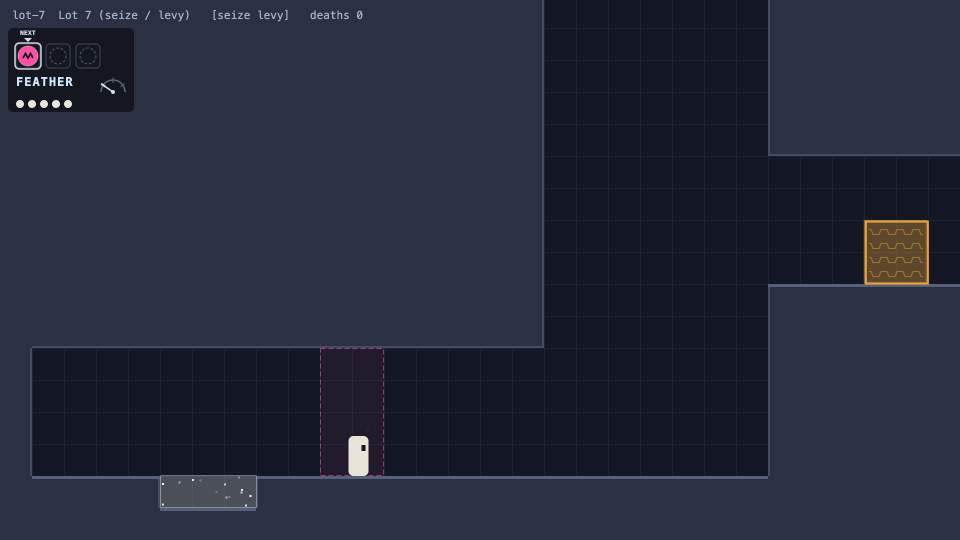
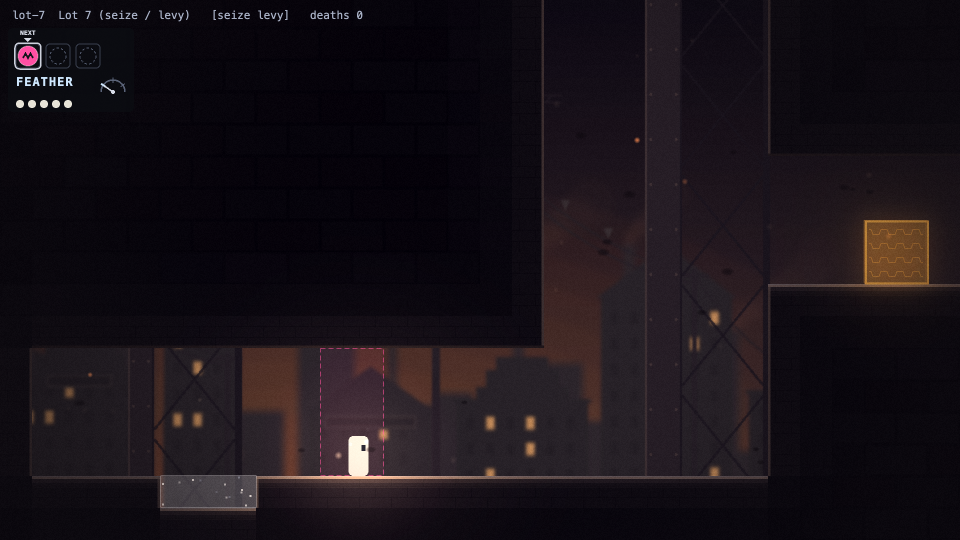
L3 merge: L3 visuals wired into the atmosphere pipeline
- New unlit world-space `gfx.layers.actors` above the lit playfield: sources, levied, enemies,
  the player and front juice. Lit, the L3 shapes dropped to ~40% and E1 failed (ghost ratio 1.17,
  brown contrast 1.6:1); now ghost 0.33, hue gap 69°, contrast 5.6:1.
- Humming sources, humming levied and armed voices draw emissive copies (bloom) and push small
  lights in their noise colour; telegraphs glow up with the wind-up. Ghost/pending/static don't.
- NOISE_COLOURS.core is the E1-checked PALETTE token (unit test keeps glow/light on its hue).
- Goldens regenerated; lot-7 and the-pit added. Bag HUD hides with gfx ui:false (text in goldens).

diff --git a/src/render/signature.ts b/src/render/signature.ts
@@ -4,6 +4,8 @@ import { type AttackDef, enemyDef } from '../sim/ai/schema';
 import type { Colour, SimEvent } from '../sim/events';
 import type { Enemy, Levied, Sound, Source } from '../sim/state';
 import { tuning } from '../sim/tuning';
+import type { Light } from './gfx/lighting';
+import { NOISE_COLOURS } from './gfx/palette';
 import {
   dashedRect,
   drawGhost,
@@ -52,6 +54,10 @@ export class SignatureRenderer {
   readonly back = new Graphics();
   /** Over the player: tethers, count rings, sparks, weight motes. */
   readonly front = new Graphics();
+  /** Emissive copies (gfx.layers.emissive): humming sources, levied, armed voices, telegraphs. */
+  readonly glow = new Graphics({ label: 'sig-glow' });
+  /** Lights for this frame (gfx light provider), filled by draw(). */
+  private frameLights: Light[] = [];
 
   // Deterministic feedback state (stepped per sim frame).
   private flash = new Map<number, number>();
@@ -214,7 +220,9 @@ export class SignatureRenderer {
     const frame = s.frame;
     const g = this.back.clear();
     const f = this.front.clear();
+    const gl = this.glow.clear();
     this.drawn = [];
+    this.frameLights = [];
     const soundOf = (id: number) => L.sounds.find((x) => x.id === id);
     const shake = s.hitstop > 0 ? (s.hitstop % 2 === 0 ? 1 : -1) * SIG.hitstopShakePx : 0;
     const ts = tuning.world.tileSize;
@@ -281,6 +289,7 @@ export class SignatureRenderer {
       } else {
         status = 'humming';
         drawHumming(g, r, colour, frame, this.flash.has(src.id));
+        this.glowHum(gl, r, colour, frame);
       }
       this.drawn.push({ id: src.id, kind: 'object', colour, status, x: src.x, y: src.y, w: src.w, h: src.h });
     }
@@ -292,6 +301,7 @@ export class SignatureRenderer {
       const y = q ? lerp(q.y, l.y, alpha) : l.y;
       const src = L.sources.find((o) => o.kind === 'levied' && o.ent === l.id);
       const status = drawLevied(g, l, x, y, frame);
+      if (status === 'humming') this.glowHum(gl, { x, y, w: l.w, h: l.h }, l.colour, frame);
       this.drawn.push({
         id: src?.id ?? l.id,
         kind: 'levied',
@@ -314,7 +324,7 @@ export class SignatureRenderer {
       if (this.shakeId === e.id || this.shakeId === e.source) x += shake;
       const src = L.sources.find((o) => o.id === e.source);
       const voices = (src?.soundIds ?? []).map(soundOf).filter((v): v is Sound => !!v);
-      const status = this.drawEnemy(g, f, e, x, y, voices, frame);
+      const status = this.drawEnemy(g, f, gl, e, x, y, voices, frame);
       const colour = voices[0]?.colour ?? '';
       this.drawn.push({ id: src?.id ?? e.id, kind: 'enemy', colour, status, x, y, w: e.w, h: e.h });
 
@@ -366,9 +376,40 @@ export class SignatureRenderer {
     this.drawn.push({ id: 0, kind: 'player', colour: '', status: p.profile, ...kr });
   }
 
+  /** A light for this frame's provider call (world px). */
+  private light(x: number, y: number, radius: number, colour: Colour, intensity: number): void {
+    this.frameLights.push({ x, y, radius, color: NOISE_COLOURS[colour].light, intensity });
+  }
+
+  /** Emissive copy of a humming thing (outline + faint fill) and its light. */
+  private glowHum(gl: Graphics, r: Rect, colour: Colour, frame: number): void {
+    const n = NOISE_COLOURS[colour];
+    const { dx, dy } = vibration(colour, frame);
+    const w = SIG.hummingOutline;
+    gl.rect(r.x, r.y, r.w, r.h).fill({ color: n.glow, alpha: SIG.glowFillAlpha });
+    gl.rect(r.x + dx + w / 2, r.y + dy + w / 2, r.w - w, r.h - w).stroke({
+      width: w,
+      color: n.core,
+      alpha: SIG.glowOutlineAlpha,
+    });
+    this.light(
+      r.x + r.w / 2,
+      r.y + r.h / 2,
+      SIG.lightRadius + Math.max(r.w, r.h) / 2,
+      colour,
+      SIG.lightIntensity,
+    );
+  }
+
+  /** Light provider (gfx.lights.providers): the lights of the last drawn frame. */
+  lights(out: Light[]): void {
+    for (const l of this.frameLights) out.push(l);
+  }
+
   private drawEnemy(
     g: Graphics,
     f: Graphics,
+    gl: Graphics,
     e: Enemy,
     x: number,
     y: number,
@@ -423,6 +464,14 @@ export class SignatureRenderer {
           color: oc,
           alpha: 1,
         });
+        // Armed voices glow a little; a winding-up telegraph glows hard (it reads in any light).
+        gl.roundRect(r.x + dx + width / 2, r.y + dy + width / 2, r.w - width, r.h - width, 12).stroke({
+          width,
+          color: NOISE_COLOURS[v.colour].core,
+          alpha: SIG.glowVoiceAlpha + (SIG.glowTeleAlpha - SIG.glowVoiceAlpha) * Math.max(k, pulse),
+        });
+        if (i === 0)
+          this.light(x + W / 2, y + H / 2, SIG.enemyLightRadius + W / 2, v.colour, SIG.enemyLightIntensity);
       } else {
         dashedRect(g, r, Math.max(2, width * 0.5), c, e.state === 'TELEGRAPH' ? 0.9 : SIG.ghostOutlineAlpha);
       }
@@ -435,6 +484,11 @@ export class SignatureRenderer {
         width: 2 + 4 * k,
         color: tint,
         alpha: 0.5 + 0.5 * k,
+      });
+      gl.roundRect(x - pad, y - pad, W + 2 * pad, H + 2 * pad, 12).stroke({
+        width: 2 + 4 * k,
+        color: tint,
+        alpha: SIG.glowTeleAlpha * k,
       });
     }
 

diff --git a/src/render/gfx/pipeline.ts b/src/render/gfx/pipeline.ts
@@ -8,7 +8,9 @@
  *   │  │                unlit on purpose: lit, the mid layer went as dark as the playfield and
  *   │  │                its pillars read as walls. Lamps still glow over it through the haze.
  *   │  ├─ lit           [LightingFilter: x light map]
- *   │  │  └─ playfield  the camera-moved world: terrain, characters, juice (WorldRenderer.world)
+ *   │  │  └─ playfield  the camera-moved world: terrain, door labels, dust (WorldRenderer.world)
+ *   │  ├─ actors        world space, unlit: L3 sources/levied/enemies, the player, juice. Anything
+ *   │  │                the player must read (hums, ghosts, telegraphs) never depends on a lamp.
  *   │  ├─ emissive      additive, unlit glowing shapes, world space
  *   │  ├─ bloom         the emissive layer blurred at 1/4 and 1/8 res (BloomPass), additive
  *   │  ├─ ambient       soot (normal) + motes/embers (additive) particles
@@ -18,7 +20,8 @@
  *
  * Hooks for other render code (e.g. sound-source visuals):
  *   - `layers.emissive`: add Graphics/Sprites in world px; they glow (bloom) and ignore lighting.
- *   - `layers.playfield` (= WorldRenderer.world): lit characters/objects.
+ *   - `layers.playfield` (= WorldRenderer.world): lit terrain and props.
+ *   - `layers.actors`: unlit, still graded by post; gameplay-critical shapes.
  *   - `lights.providers.add(fn)`: push per-frame lights (world px, colour, radius, intensity).
  *   - `NOISE_COLOURS` in palette.ts for brown/pink/violet/white hums.
  */
@@ -69,6 +72,8 @@ export class GfxPipeline {
     mid: new Container({ label: 'mid' }),
     /** The camera-moved playfield; WorldRenderer passes its `world` container in. */
     playfield: null as unknown as Container,
+    /** World-space, unlit (post still grades it): readability-critical actors, see the header. */
+    actors: new Container({ label: 'actors' }),
     /** Screen-space holder of the bloom filter; add world-space things to `emissive`. */
     emissiveRoot: new Container({ label: 'emissive-root' }),
     emissive: new Container({ label: 'emissive' }),
@@ -127,7 +132,7 @@ export class GfxPipeline {
     L.emissive.addChild(this.terrainGlow, this.fxGlow, this.playerGlow);
     L.emissiveRoot.addChild(L.emissive);
     L.ambient.addChild(this.ambientView.soot, this.ambientView.glow);
-    this.scene.addChild(L.bg, L.lit, L.emissiveRoot, this.bloom.view, L.ambient, L.fg);
+    this.scene.addChild(L.bg, L.lit, L.actors, L.emissiveRoot, this.bloom.view, L.ambient, L.fg);
     L.ui.addChild(this.perfHud.container);
     app.stage.addChild(this.lights.screenSprite, this.scene, L.overlay, L.ui);
     const gl = (this.renderer as unknown as { gl?: WebGL2RenderingContext }).gl;
@@ -232,6 +237,7 @@ export class GfxPipeline {
     const { camX, camY, clock } = f;
     this.backdrop?.place(camX, camY);
     this.layers.playfield.position.set(-camX, -camY);
+    this.layers.actors.position.set(-camX, -camY);
     this.layers.emissive.position.set(-camX, -camY);
     this.layers.overlay.position.set(-camX, -camY);
 

diff --git a/src/render/world.ts b/src/render/world.ts
@@ -37,7 +37,7 @@ const render = {
  * bloom, post, particles) is `gfx` (src/render/gfx/pipeline.ts). Read-only with respect to the sim.
  */
 export class WorldRenderer {
-  /** Moved by the camera, lit by the light map: terrain, characters, juice. */
+  /** Moved by the camera, lit by the light map: terrain, door labels, dust (actors: gfx.layers.actors). */
   readonly world = new Container({ label: 'world' });
   /** World-space debug overlays (unlit, un-graded). */
   readonly overlay = new Container({ label: 'debug-overlay' });
@@ -72,15 +72,12 @@ export class WorldRenderer {
     this.gfx = new GfxPipeline(app, this.world);
     this.sig = new SignatureRenderer(game);
     this.bagHud = new BagHud(game);
-    this.world.addChild(
-      this.tiles,
-      this.labels,
-      this.sig.back,
-      this.fxBack,
-      this.player,
-      this.fxFront,
-      this.sig.front,
-    );
+    // Terrain, labels and dust are lit; the L3 readability layer, the player and front juice are
+    // unlit actors (a hum or a telegraph must never depend on a lamp), and sources glow.
+    this.world.addChild(this.tiles, this.labels, this.fxBack);
+    this.gfx.layers.actors.addChild(this.sig.back, this.player, this.fxFront, this.sig.front);
+    this.gfx.layers.emissive.addChild(this.sig.glow);
+    this.gfx.lights.providers.add((out) => this.sig.lights(out));
     this.gfx.layers.overlay.addChild(this.overlay);
     this.gfx.layers.ui.addChildAt(this.screen, 0);
     this.hud = new Text({
@@ -303,6 +300,7 @@ export class WorldRenderer {
     }${stats.optional ? '  +g' : ''}${this.hudExtra ? `   ${this.hudExtra}` : ''}`;
     if (this.hud.text !== text) this.hud.text = text;
     this.hud.visible = this.gfx.toggles.ui;
+    this.bagHud.container.visible = this.gfx.toggles.ui;
     this.labels.visible = this.gfx.toggles.ui;
   }
 }

diff --git a/src/render/gfx/palette.ts b/src/render/gfx/palette.ts
@@ -7,6 +7,7 @@
  * fog colour, nearer layers get darker, and the playfield terrain is the darkest mass with the
  * brightest rims, so the playfield has the most contrast and the background recedes.
  */
+import { PALETTE } from '../palette';
 
 export interface Palette {
   skyTop: number;
@@ -120,12 +121,16 @@ export const PALETTE_NAMES = Object.keys(PALETTES) as PaletteName[];
 
 /**
  * Noise colours for sound-source visuals (humming/ghosted outlines, PLAN §2). Other render code
- * should use these so a brown hum glows the same brown everywhere. `light` is the light it casts.
+ * should use these so a brown hum glows the same brown everywhere. `core` is the L3 readability
+ * token (src/render/palette.ts PALETTE, checked by E1: hue gap >= 60°, contrast >= 3:1), so the
+ * drawn outline, its glow and its light never drift apart; `glow` is the emissive (bloomed) tint
+ * and `light` the light it casts on lit terrain, both within a few degrees of the core hue
+ * (tests/unit/gfx.test.ts).
  */
 export const NOISE_COLOURS = {
-  brown: { core: 0xd07a3c, glow: 0xa0521e, light: 0xff9a50 },
-  pink: { core: 0xff86b0, glow: 0xd04a7c, light: 0xff9ec0 },
-  violet: { core: 0xa88aff, glow: 0x6a4ad8, light: 0xb49cff },
-  white: { core: 0xf0f4ff, glow: 0x9aa4c0, light: 0xe8f0ff },
+  brown: { core: PALETTE.brown, glow: 0xc07418, light: 0xffb454 },
+  pink: { core: PALETTE.pink, glow: 0xd82a80, light: 0xff7ab8 },
+  violet: { core: PALETTE.violet, glow: 0x6a4ad8, light: 0xb49cff },
+  white: { core: PALETTE.white, glow: 0x9aa4c0, light: 0xe8f0ff },
 } as const;
 export type NoiseColour = keyof typeof NOISE_COLOURS;

diff --git a/tests/unit/gfx.test.ts b/tests/unit/gfx.test.ts
@@ -14,8 +14,9 @@ import {
   roomFamily,
 } from '../../src/render/gfx/dressing';
 import { falloff, flickerFactor } from '../../src/render/gfx/light-model';
-import { PALETTES } from '../../src/render/gfx/palette';
+import { NOISE_COLOURS, PALETTES } from '../../src/render/gfx/palette';
 import { solidDepth } from '../../src/render/gfx/terrain';
+import { hueDeg, hueGap, PALETTE, rgbOf } from '../../src/render/palette';
 import { getRoom, ROOMS, Tile } from '../../src/sim/world/rooms';
 
 describe('room dressing (content/rooms-dressing)', () => {
@@ -142,5 +143,18 @@ describe('terrain depth and helpers', () => {
     expect(Math.min(...xs)).toBeGreaterThanOrEqual(0);
     expect(Math.max(...xs)).toBeLessThan(1);
     expect(new RenderRng(9).next()).toBe(xs[0]);
+  });
+});
+
+describe('noise colours (gfx) agree with the L3 readability palette', () => {
+  it('core is the E1-checked token; glow and light keep its hue', () => {
+    for (const c of ['brown', 'pink', 'violet', 'white'] as const) {
+      const n = NOISE_COLOURS[c];
+      expect(n.core).toBe(PALETTE[c]);
+      if (c === 'white') continue;
+      const h = hueDeg(...rgbOf(n.core));
+      expect(hueGap(h, hueDeg(...rgbOf(n.glow)))).toBeLessThan(15);
+      expect(hueGap(h, hueDeg(...rgbOf(n.light)))).toBeLessThan(15);
+    }
   });
 });

diff --git a/src/render/palette.ts b/src/render/palette.ts
@@ -104,6 +104,20 @@ export const SIG = {
   hitstopShakePx: 3,
   ribbonFrames: 12,
   needleFrames: 8,
+  /**
+   * Atmosphere hooks (src/render/gfx): humming sources and levied objects glow (emissive layer,
+   * bloomed) and cast a small light in their noise colour; ghosts, pending and white static don't.
+   * Enemies glow faintly while armed and strongly as a telegraph winds up.
+   */
+  glowOutlineAlpha: 0.75,
+  glowFillAlpha: 0.14,
+  glowVoiceAlpha: 0.3,
+  glowTeleAlpha: 0.9,
+  lightIntensity: 0.55,
+  /** Light radius = this + half the source's larger side (px). */
+  lightRadius: 150,
+  enemyLightIntensity: 0.3,
+  enemyLightRadius: 150,
   /** Heavy Kid silhouette (render only): 72 tall, wider stance. */
   heavyScale: [1.3, 72 / 80] as const,
   middleScale: [1.12, 76 / 80] as const,

diff --git a/tests/e2e/gfx.spec.ts b/tests/e2e/gfx.spec.ts
@@ -43,6 +43,10 @@ const CANON: Array<{ room: string; script: string; steps: number }> = [
   { room: 'gym-05', script: 'R30 .20', steps: 50 },
   // White district, glowing spikes, respawn flag and goal; the player mid-jump.
   { room: 'gym-11', script: 'R20 R+J14', steps: 34 },
+  // L3: Lot 7 after seizing the pink partition (humming brown furnace vs pink ghost, lit floor).
+  { room: 'lot-7', script: 'R60 R+S1 R30', steps: 80 },
+  // L3: the Pit, Barkers and the Grinder armed under the violet lamps.
+  { room: 'the-pit', script: '.90', steps: 90 },
 ];
 
 test('render is deterministic: the same sim state and inputs give identical pixels', async ({ page }) => {

diff --git a/memory/render-pipeline.md b/memory/render-pipeline.md
@@ -17,12 +17,14 @@ while switching tiers and verifies it headless.
   `default` -> family (`gym` for `gym-NN`) -> room, section by section. Light `at` is in sketch tiles
   (before padding), like cameraZones. Districts: brown, pink, violet, white. New rooms fall back to
   `default` (brown); give them a file to pick a district.
-- **Hooks for other render code:** world-space `gfx.layers.emissive` (unlit, additive, blooms);
+- **Hooks for other render code:** world-space `gfx.layers.actors` (unlit, above the lit playfield,
+  still post-graded: L3 sources/enemies, the player, front juice); `gfx.layers.emissive` (unlit, additive, blooms);
   `gfx.lights.providers.add((out, clock) => out.push({x, y, radius, color, intensity, flicker}))`;
   `gfx.layers.playfield` (= `renderer.world`, lit); `NOISE_COLOURS` for hum colours.
 - **Value structure (the look):** sky/fog mid-dark, far layers close to fog, mid a bit darker, terrain
   darkest with bright top rims, player brightest + carried light. Warm lamps vs cool ambient per district.
-- **Readability rules learned by looking:** nothing horizontal and dark in the mid layer (pipes and
+- **Readability rules learned by looking:** anything the player must read (hums, ghosts, telegraphs)
+  goes in `actors`, never under the light map (L3 E1 failed when it was lit); nothing horizontal and dark in the mid layer (pipes and
   hanging signs read as platforms, gym-09); the mid layer is unlit (lit, it went as dark as terrain and
   its pillars read as walls); foreground occluders only hang from the top (bottom ones hid spikes, gym-12);
   particles are hidden over solid tiles (embers over rock read as stars); heavy far-layer blur made the
@@ -49,7 +51,7 @@ while switching tiers and verifies it headless.
   `tests/e2e/perf.spec.ts` launches with `--use-angle=metal` (darwin) and skips on software GL.
   The latency test boots `quality=low` so it is not skipped for fill rate. Canvas `antialias` is off:
   filtered layers never used MSAA anyway, and MSAA on the canvas cost SwiftShader a lot.
-- Screenshot goldens: `tests/e2e/__screenshots__/gfx.spec.ts/*.png` (no platform suffix; fails above 1% of
+- Screenshot goldens: `tests/e2e/__screenshots__/gfx.spec.ts/*.png` (gym-01, gym-05, gym-11, lot-7, the-pit) (no platform suffix; fails above 1% of
   pixels off by YIQ 0.2). After a visual change: `npx playwright test gfx --update-snapshots=all`, then
   look at them. Plain `--update-snapshots` only rewrites goldens that fail, so a change under the
   tolerance silently keeps the old picture. Goldens were made on macOS ARM SwiftShader; CI is x86

diff --git a/memory/signature-render.md b/memory/signature-render.md
@@ -8,9 +8,17 @@ Code-drawn Pixi Graphics; render only reads sim state/events.
   `rngFor(frame,id)` render RNG), `src/render/signature.ts` (world layer: plates, gates, object
   sources, levied, enemies, tethers, count ring, sparks, feather motes; `kidTint/kidScale/kidAlpha`),
   `src/render/hud.ts` (bag slots, NEXT caret, weight needle, Chin pips, take/push/snatch ribbons).
-- **Hooks in world.ts** (kept minimal for the parallel post-FX work): `sig.back` sits under fxBack,
-  `sig.front` over fxFront, `bagHud.container` in `screen`; `sig.step`/`bagHud.step` in onStep,
-  `reset()` in syncRoom, `draw` after drawPlayer; drawPlayer multiplies scale/tint/alpha from `sig`.
+- **Hooks in world.ts**: `sig.back`, the player, `fxFront` and `sig.front` live in the unlit
+  `gfx.layers.actors` (above the lit terrain); `sig.glow` is in `gfx.layers.emissive`;
+  `sig.lights(out)` is a `gfx.lights` provider. `bagHud.container` in `screen` (hidden with
+  `gfx.set({ui:false})`, since its Text differs across machines in goldens). `sig.step`/`bagHud.step`
+  in onStep, `reset()` in syncRoom, `draw` after drawPlayer (before `gfx.draw`, which renders lights).
+- **Atmosphere (after the gfx merge):** humming object sources, humming levied and armed enemy voices
+  draw an emissive copy (outline + faint fill; bloomed) and push a light in `NOISE_COLOURS[c].light`;
+  a winding-up telegraph's glow rises to `SIG.glowTeleAlpha`. Ghost, pending and white static get
+  neither. `NOISE_COLOURS.core` *is* the `PALETTE` token (unit test), so outline, glow and light
+  can't drift. Lit, the sources went to ~40% brightness and E1 failed (ghost ratio 1.17, brown
+  contrast 1.6:1): readability-critical shapes must stay out of the LightingFilter.
 - **Determinism:** feedback state (flashes, shake target, sparks, ribbons, needle, gate-open frame) is
   stepped in onStep. Vibration, speckle and motes are functions of `state.frame` (Math.sin is fine
   in render). Sparks freeze during hitstop; ribbons don't (they are UI).
